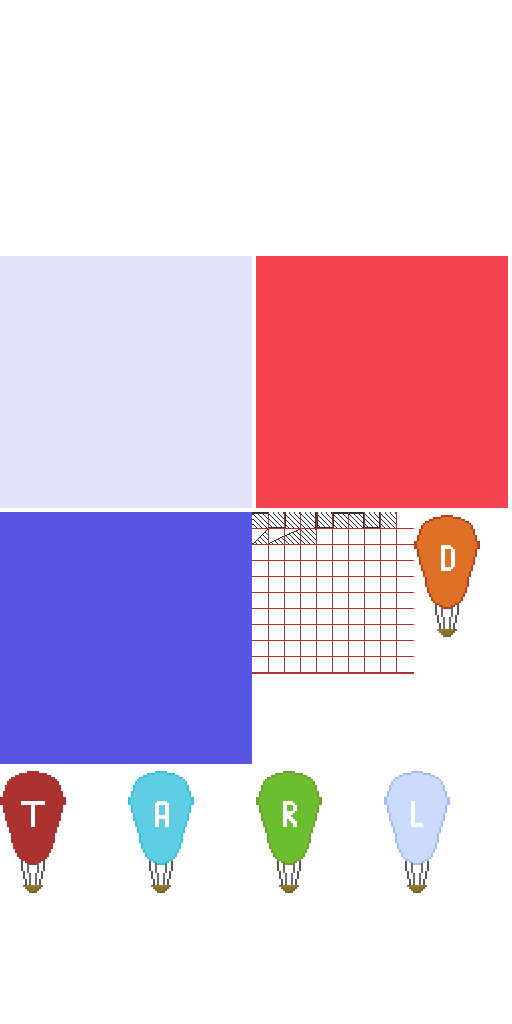
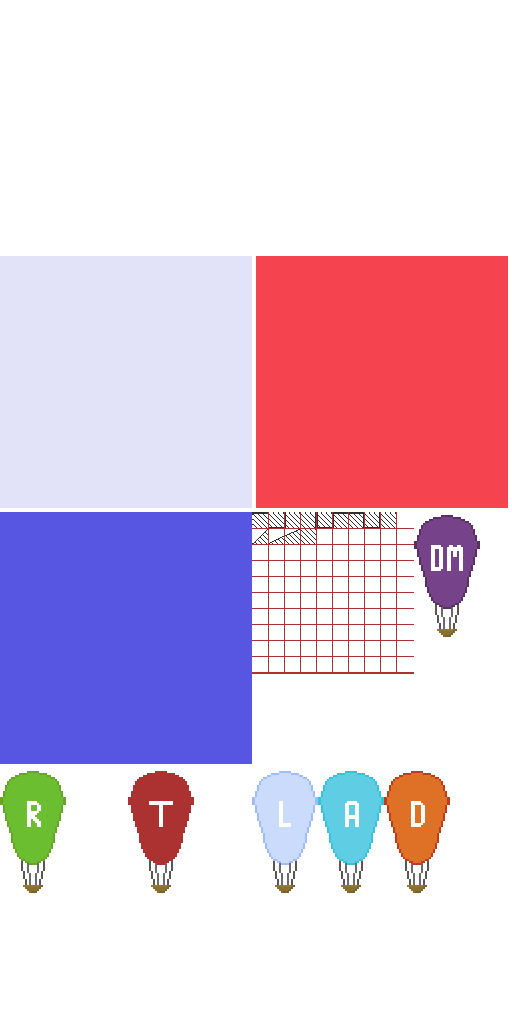
Add Dominik

diff --git a/scripts/c3runtime.js b/scripts/c3runtime.js
@@ -5100,6 +5100,7 @@ self.C3_ExpressionFuncs = [
 		() => 0,
 		() => "",
 		() => "walking",
+		() => -10,
 		p => {
 			const n0 = p._GetNode(0);
 			return () => (n0.ExpBehavior() / 2);
@@ -5159,15 +5160,11 @@ self.C3_ExpressionFuncs = [
 			const n2 = p._GetNode(2);
 			const n3 = p._GetNode(3);
 			const n4 = p._GetNode(4);
-			return () => (and(((and(((and(((and(((and("Alex: ", n0.ExpObject("Alex")) + "\n") + "Don:  "), n1.ExpObject("Don")) + "\n") + "Lucas:"), n2.ExpObject("Lucas")) + "\n") + "Rob:  "), n3.ExpObject("Rob")) + "\n") + "Tom:  "), n4.ExpObject("Tom")) + "\n");
+			const n5 = p._GetNode(5);
+			return () => (and(((and(((and(((and(((and(((and("Alex:    ", n0.ExpObject("Alex")) + "\n") + "Don:     "), n1.ExpObject("Don")) + "\n") + "Lucas:   "), n2.ExpObject("Lucas")) + "\n") + "Rob:     "), n3.ExpObject("Rob")) + "\n") + "Tom:     "), n4.ExpObject("Tom")) + "\n") + "Dominik: "), n5.ExpObject("Dominik")) + "\n");
 		},
 		() => 1,
 		() => "HUD",
-		p => {
-			const n0 = p._GetNode(0);
-			const n1 = p._GetNode(1);
-			return () => (5 - (Math.abs((n0.ExpObject() - n1.ExpObject())) / 100));
-		},
 		() => "Tom",
 		p => {
 			const n0 = p._GetNode(0);
@@ -5195,7 +5192,11 @@ self.C3_ExpressionFuncs = [
 			const n0 = p._GetNode(0);
 			return () => add(n0.ExpObject("Don"), 1);
 		},
-		() => -10,
+		() => "Dominik",
+		p => {
+			const n0 = p._GetNode(0);
+			return () => add(n0.ExpObject("Dominik"), 1);
+		},
 		p => {
 			const v0 = p._GetNode(0).GetVar();
 			return () => ((("Congratulations " + v0.GetValue()) + "\n") + "Its your turn to do the Daily!");

diff --git a/scripts/objRefTable.js b/scripts/objRefTable.js
@@ -19,6 +19,7 @@ self.C3_GetObjectRefTable = function () {
 		C3.Plugins.System.Acts.SetLayoutScale,
 		C3.Plugins.Audio.Acts.Play,
 		C3.Plugins.Audio.Acts.Preload,
+		C3.Plugins.Audio.Acts.SetMasterVolume,
 		C3.Plugins.Sprite.Cnds.IsOutsideLayout,
 		C3.Plugins.Sprite.Acts.SetPosToObject,
 		C3.Behaviors.Platform.Cnds.CompareSpeed,
@@ -59,11 +60,13 @@ self.C3_GetObjectRefTable = function () {
 		C3.Behaviors.Bullet.Acts.SetEnabled,
 		C3.Behaviors.Bullet.Acts.SetAngleOfMotion,
 		C3.Plugins.Dictionary.Exps.Get,
+		C3.Plugins.System.Cnds.TriggerOnce,
 		C3.Plugins.System.Acts.SetLayerVisible,
-		C3.Plugins.System.Cnds.CompareVar,
+		C3.Plugins.Audio.Acts.Stop,
 		C3.Plugins.Sprite.Cnds.OnCollision,
 		C3.Plugins.Sprite.Cnds.CompareFrame,
 		C3.Plugins.Dictionary.Acts.AddKey,
+		C3.Plugins.System.Cnds.CompareVar,
 		C3.Plugins.Dictionary.Cnds.ForEachKey,
 		C3.Plugins.Dictionary.Cnds.CompareValue,
 		C3.Plugins.Dictionary.Exps.CurrentKey,
